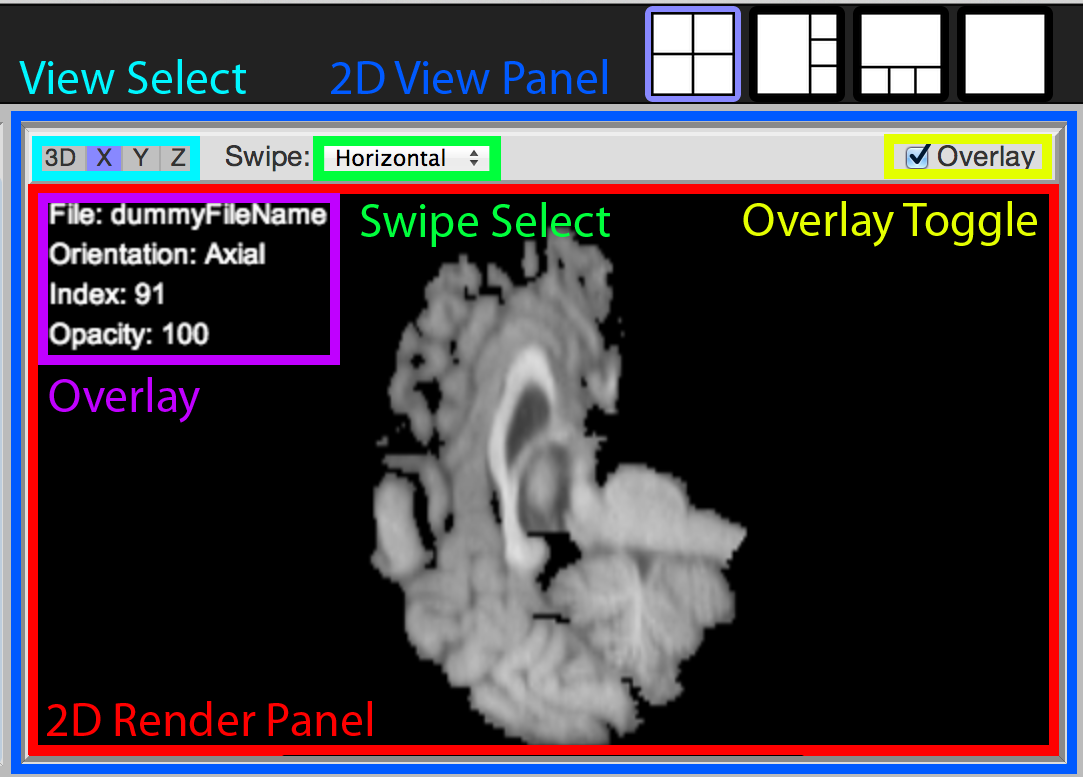
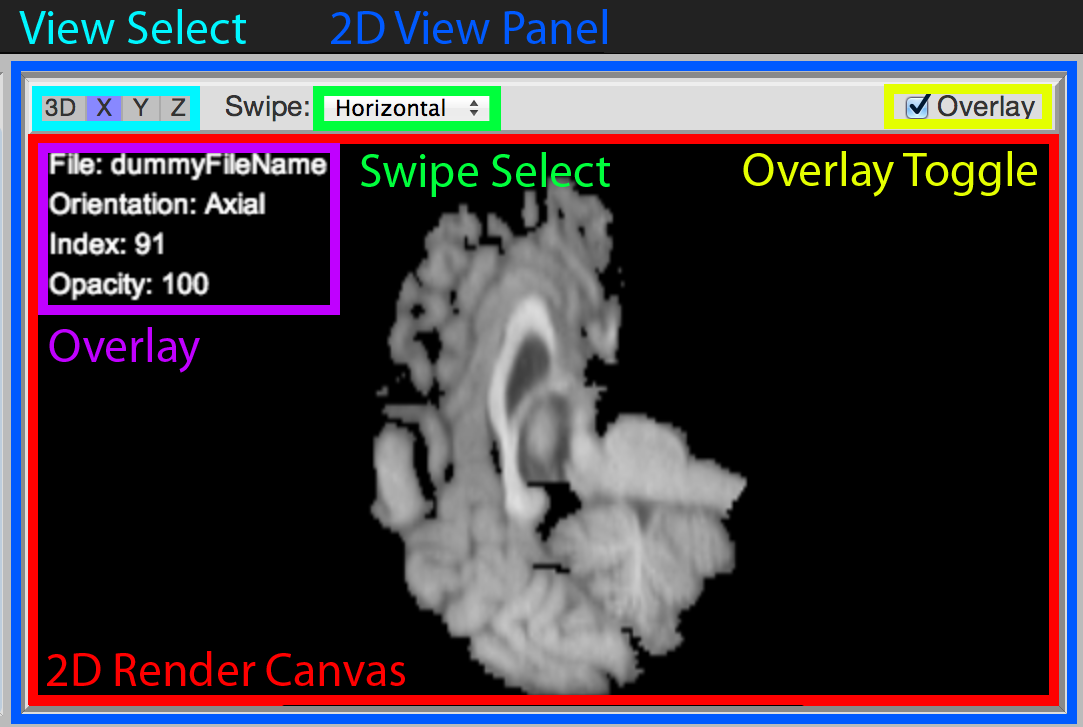
updating report

diff --git a/Code/templates/Levels.html b/Code/templates/Levels.html
@@ -12,7 +12,7 @@
     <p>
 
 	<span class="subMenuHeader">
-	  Indeces
+	  Indices
 	</span>
 	
 	<div id="sliderContainer">
@@ -57,13 +57,13 @@
 
       <p>
 	<span class="subMenuHeader">
-	  Window/Level
+	  Window
 	</span>
 
 	<div id="sliderContainer">
 	  <input type="number"
 		 id="levelLow"
-		 title="Lower Limit Level"
+		 title="Lower Limit Level (Brightness)"
 		 style="width:50px; 
 			display:inline-block;"
 		 value="0">
@@ -80,7 +80,7 @@
 	  </div>
 	  <input type="number"
 		 id="levelHigh"		 
-		 title="Upper Limit Level"
+		 title="Upper Limit Level (Brightness)"
 		 style="width:50px;
 			display:inline-block;
 			float: right;"

diff --git a/Code/about.html b/Code/about.html
@@ -79,7 +79,7 @@
 
 	<br>
 	<br>
-	Current Version: Beta 1.03
+	Current Version: Beta 1.04
 
       </div>
 
@@ -201,7 +201,12 @@
 	</span>
 
 	<br>
-	<br>
+	<br>	
+	26/08/14 - Beta Version 1.04:
+	<ul>	  
+	  <li>Added error handling when loading files</li>
+	</ul>
+	
 	23/08/14 - Beta Version 1.03:
 	<ul>
 	  <li>Fixed: Scrollbar for LayerViews</li>	  

diff --git a/Code/index.html b/Code/index.html
@@ -4,7 +4,7 @@
 
   <head>
     <meta charset="utf-8"/>
-    <title> ScanView (Beta v1.03) </title>
+    <title> ScanView (Beta v1.04) </title>
 
     <link rel="brain icon" href="../Design/brainIcon.png"> 
     <link href="http://netdna.bootstrapcdn.com/bootstrap/3.1.1/css/bootstrap.min.css" rel="stylesheet">

diff --git a/Docs/Report/report_01.tex b/Docs/Report/report_01.tex
@@ -20,7 +20,8 @@
 \usepackage{graphicx}
 \usepackage{cite}
 \usepackage{hyperref}
-
+\usepackage{caption}
+\usepackage{subcaption}
 
 
 
@@ -341,18 +342,27 @@ The main view that the user first sees is split into a 4 different components. T
 \label{fig:UIdesign1}
 \end{figure}
 
+The Camera View Panels are the viewing windows for displaying the visual representation of the loaded Volume File. Internally they copy pixels from invisible XTK Render Panels. The View Panels hold a top bar with options to customise the viewer (e.g to specify which camera to look through). The View Panels also contain an HTML5 Canvas Element which does the drawing of the Volume File. The View Panels come in two types. The 3D View Panel displays the 3D volume with the 3 axial slices. There is an option to toggle Volume Rendering on, a feature of the XTK library. It uses WebGL and will only work on computers that support WebGL. The 2D View Panels render the orthographic (ie. axial, sagittal and coronal) views of the Volume File. They include an option to specify which way Swiping between Buffers takes place. Furthermore they have a toggle for Overlaying Information into the Viewer about current filename, orientation, index and opacity.
 
 
-
-
-\begin{figure}[ht!]
+\begin{figure}
 \centering
-\includegraphics[width=90mm]{graphics/features_02.png}
-\caption{2D View Panel Functionality}
-\label{fig:UIdesign1}
+\begin{subfigure}{.5\textwidth}
+  \centering
+  \includegraphics[width=83mm]{graphics/features_02b.png}
+  \caption{3D View Panel Functionality}
+  \label{fig:sub1}
+\end{subfigure}%
+\begin{subfigure}{.5\textwidth}
+  \centering
+  \includegraphics[width=83mm]{graphics/features_02.png}
+  \caption{2D View Panel Functionality}
+  \label{fig:sub2}
+\end{subfigure}
 \end{figure}
 
-
+The Display Layer Panel allows the user to manage Display Layers by creating, deleting and modifying them. Each Display Layer can load a Volume File, which will be displayed in the View Panels. Multiple Layers can be created and will highlight blue when selected. Additionally there is a Buffer Toggle Button which allows to switch the viewer between Buffer A and Buffer B. Each Buffer can hold a different Display Layer. This becomes useful when adjusting the Opacity of a Display Layer and it will reveal the Display Layer in the B Buffer. When Buffer A and Buffer B hold the same Display Layer, dialling down the opacity will fade the View Panels to black. Also the Buffer Swipe feature (hold Ctrl and move mouse over a 2D View Panel) plays into this.
+In terms of mouse and keyboard input controls, the 3D Render Canvas supports the common operations of panning, zooming and rotating via mouse controls. Pressing 'F' on the keyboard will reset the camera to the initial setting. Pressing 'v' will toggle the Volume Rendering toggle. Likewise for the 2D Render Canvases, panning and zooming are supported, as well as 'traversing'. When the user clicks the left mouse button and floats the mouse across the slice rendering, the indices will update in the other viewers accordingly as to where the mouse pointer is in the selected View Panel. Also, pressing 'f' will reset the camera. Pressing 'o' will toggle the Overlay toggle.
 
 
 \begin{figure}[ht!]
@@ -361,6 +371,12 @@ The main view that the user first sees is split into a 4 different components. T
 \caption{Display Layer Panel Functionality}
 \label{fig:UIdesign1}
 \end{figure}
+
+The Levels Panel contains separate tabs that enable further customisation of the currently selected Display Layer. In the Levels tab, a number of convenient controls are provided. Firstly, the Index Controls provide feedback on which Slice Indices are currently set. These can also be altered via the number input. 
+
+Next, the Window Controls can be used to control the Brightness of the loaded Volume File. This attributes straight into windowLow and windowHigh attributes of an X.volume. Likewise, the Threshold Controls allow for a clipping of a Volume File and is also provided by default by the XTK library.
+
+The Opacity Controls allow the user to set the opacity of the currently loaded Display Layer. Depending on what is loaded in the other Buffer, this will either reveal the Volume File from other Display Layer or fade to black.
 
 
 \begin{figure}[ht!]
@@ -977,6 +993,7 @@ In terms of creating a function piece of software, more time would have been ben
 - not able to open certain .nii files, due to XTK library though
 - more complex file error management
 - ColorPopup not at the right position when at bottom
+- Add  a warning on File Load Error - asked on stackoverflow but no answers yet
 
 
 \subsection{Future Improvements}
